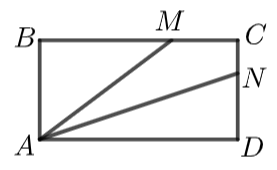
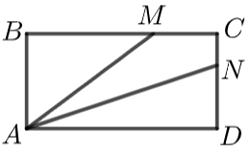
hw

diff --git a/src/model/bank.ts b/src/model/bank.ts
@@ -2868,7 +2868,7 @@ export const bank: Question[] = [
     id: '179b477953e',
     chapter: '矩陣B',
     question:
-      '請問下列哪一個選項中的矩陣乘積等於 $\\begin{bmatrix}2a&3b\\\\2c&3d\\end{bmatrix}$`?\n(A) $\\begin{bmatrix}a&b\\\\c&d\\end{bmatrix}\\begin{bmatrix}2\\\\3\\end{bmatrix}$ (B) $\\begin{bmatrix}2&3\\end{bmatrix}\\begin{bmatrix}a&b\\\\c&d\\end{bmatrix}$\n(C) $\\begin{bmatrix}2&3\\\\2&3\\end{bmatrix}\\begin{bmatrix}a&b\\\\c&d\\end{bmatrix}$ (D) $\\begin{bmatrix}2&0\\\\0&3\\end{bmatrix}\\begin{bmatrix}a&b\\\\c&d\\end{bmatrix}$\n(E) $\\begin{bmatrix}a&b\\\\c&d\\end{bmatrix}\\begin{bmatrix}2&0\\\\0&3\\end{bmatrix}$',
+      '請問下列哪一個選項中的矩陣乘積等於 $\\begin{bmatrix}2a&3b\\\\2c&3d\\end{bmatrix}$？\n(A) $\\begin{bmatrix}a&b\\\\c&d\\end{bmatrix}\\begin{bmatrix}2\\\\3\\end{bmatrix}$ (B) $\\begin{bmatrix}2&3\\end{bmatrix}\\begin{bmatrix}a&b\\\\c&d\\end{bmatrix}$\n(C) $\\begin{bmatrix}2&3\\\\2&3\\end{bmatrix}\\begin{bmatrix}a&b\\\\c&d\\end{bmatrix}$ (D) $\\begin{bmatrix}2&0\\\\0&3\\end{bmatrix}\\begin{bmatrix}a&b\\\\c&d\\end{bmatrix}$\n(E) $\\begin{bmatrix}a&b\\\\c&d\\end{bmatrix}\\begin{bmatrix}2&0\\\\0&3\\end{bmatrix}$',
     answer: '(E)',
     hasImage: false,
   },
@@ -11763,7 +11763,7 @@ export const bank: Question[] = [
     id: '17c922bf1a6',
     chapter: '平面向量',
     question:
-      '$\\vector{a}＝(3,-5)$，$\\vector{b} =(2,7)$，$\\vector{c} =(k,2k+1)$，則：\n(1) 求 $\\vector{a}\\cdot\\vector{b}$ (2) 若 $\\vector{b}\\cdot\\vector{c}=-25$，求 $k$',
+      '$\\vector{a}=(3,-5)$，$\\vector{b} =(2,7)$，$\\vector{c} =(k,2k+1)$，則：\n(1) 求 $\\vector{a}\\cdot\\vector{b}$ (2) 若 $\\vector{b}\\cdot\\vector{c}=-25$，求 $k$',
     answer: '(1) $-29$ (2) $-2$',
     hasImage: false,
   },
@@ -18840,7 +18840,7 @@ export const bank: Question[] = [
     id: '17e058b7d0b',
     chapter: '平面向量',
     question:
-      '點 $P$ 在 $\\overline{AB}$ 上，點 $Q$ 在 $\\overline{AC}$ 上，$\\overline{BQ}$ 與 $\\overline{CP}$ 交於 $R$，$\\xvector{AR}=\\frac25\\xvector{AB}+\\frac37\\xvector{AC}$，如圖，求 $\\frac{\\overline{AP}}{\\overline{PB}}$、$\\frac{\\overline{AQ}}{\\overline{QC}}$。',
+      '$P$ 在 $\\overline{AB}$ 上，$Q$ 在 $\\overline{AC}$ 上，$\\overline{BQ}$ 與 $\\overline{CP}$ 交於 $R$，$\\xvector{AR}=\\frac25\\xvector{AB}+\\frac37\\xvector{AC}$，如圖，求 $\\frac{\\overline{AP}}{\\overline{PB}}$、$\\frac{\\overline{AQ}}{\\overline{QC}}$。',
     answer: '$\\frac73$；$\\frac52$',
     hasImage: true,
   },
@@ -18856,7 +18856,7 @@ export const bank: Question[] = [
     id: '17e092a5366',
     chapter: '平面向量',
     question:
-      '平面上有一 $\\triangle ABC$，$G$ 為 $\\triangle ABC$ 的重心，$O$、$D$ 為此平面上的相異二點，且滿足 $\\xvector{OD}=\\xvector{OA}+\\xvector{OB}+\\xvector{OC}$，請選出正確的選項。\n(1) $O$、$G$、$D$ 三點共線\n(2) $\\overline{OD}=2\\overline{OG}$\n(3) $\\xvector{AD}+\\xvector{BD}+\\xvector{CD}=2\\xvector{OD}$\n(4) $G$ 位於 $\\triangle ABC$ 的內部\n(5) $D$ 位於 $\\triangle ABC$ 的外部',
+      '平面上有一 $\\triangle ABC$，$G$ 為 $\\triangle ABC$ 的重心，$O$、$D$ 為此平面上的相異二點，且滿足 $\\xvector{OD}=\\xvector{OA}+\\xvector{OB}+\\xvector{OC}$，下列哪些正確？\n(1) $O$、$G$、$D$ 三點共線\n(2) $\\overline{OD}=2\\overline{OG}$\n(3) $\\xvector{AD}+\\xvector{BD}+\\xvector{CD}=2\\xvector{OD}$\n(4) $G$ 位於 $\\triangle ABC$ 的內部\n(5) $D$ 位於 $\\triangle ABC$ 的外部',
     answer: '(1)(3)(4)',
     hasImage: false,
   },
@@ -18864,8 +18864,48 @@ export const bank: Question[] = [
     id: '17e0a7eeea1',
     chapter: '平面向量',
     question:
-      '矩形 $ABCD$ 中，$\\overline{AB}=3$，$\\overline{AD}=6$，$\\xvector{DN}=2\\xvector{NC}$，$\\xvector{BM}=2\\xvector{MC}$，若 $\\angle NAM=\\theta$，求 $\\cos\\theta$。',
+      '矩形如圖，$\\overline{AB}=3$，$\\overline{AD}=6$，$\\xvector{DN}=2\\xvector{NC}$，$\\xvector{BM}=2\\xvector{MC}$，若 $\\angle NAM=\\theta$，求 $\\cos\\theta$。',
     answer: '$\\frac{3\\sqrt{10}}{10}$',
     hasImage: true,
+  },
+  {
+    id: '17e0bb831da',
+    chapter: '平面向量',
+    question:
+      '設平面上三點 $A(2,5)$，$B(5,1)$，$C(3,7)$，若 $\\xvector{AP}=x\\xvector{AB}+y\\xvector{AC}$，其中 $-1\\le x\\le1$，$0\\le y\\le3$，試求所有的點 $P$ 所形成之區域面積。',
+    answer: '$60$',
+    hasImage: false,
+  },
+  {
+    id: '17e0bbea7a2',
+    chapter: '平面向量',
+    question:
+      '坊間一包 A4 影印紙有 $500$ 張，請問至少需要幾張 A0 尺寸的影印原紙，才足夠切得一包 A4 影印紙？',
+    answer: '$32$',
+    hasImage: false,
+  },
+  {
+    id: '17e0bc2d5b6',
+    chapter: '平面向量',
+    question:
+      '三分之一拱 $ABK$ 如圖，$P$、$Q$ 為 $\\overline{AB}$ 的三等分點，也是左、右兩道圓弧的圓心，兩圓弧交於 $K$，在 $K$ 作兩圓弧的切線 $L$、$M$，兩切線的鈍夾角稱為拱形的「頂角」，試求頂角大小。(求近似值至小數點後第二位，可用計算機)',
+    answer: '$151.04\\du$',
+    hasImage: true,
+  },
+  {
+    id: '17e0bc65abf',
+    chapter: '平面向量',
+    question:
+      '圖為「單點透視法」畫出的立體圖形，$L$ 是遠方地平線，$A$ 為消失點，某人的身長在圖中為 $15$ 公分，站立在距 $A$ 為 $18$ 公分的 $P$ 點位置，若此人沿 $\\xvector{AP}$ 的方向走到 $Q$，圖中 $\\overline{PQ}$ 為 $12$ 公分，求此人在圖中 $Q$ 處的身長。',
+    answer: '$25$ 公分',
+    hasImage: true,
+  },
+  {
+    id: '17e0bca6fe6',
+    chapter: '平面向量',
+    question:
+      '設 $O$、$A$、$B$、$C$ 為平面上任意四點，下列哪些選項中的 $A$、$B$、$C$ 三點一定共線？\n(1) $|\\xvector{AB}|+|\\xvector{BC}|=|\\xvector{AC}|$\n(2) $|\\xvector{AB}|-|\\xvector{BC}|=|\\xvector{AC}|$\n(3) $\\xvector{OC}=\\frac13\\xvector{OA}-\\frac23\\xvector{OB}$\n(4) $3\\xvector{OC}=8\\xvector{OA}-5\\xvector{OB}$\n(5) $\\xvector{AB}=2\\xvector{CB}$',
+    answer: '(1)(2)(4)(5)',
+    hasImage: false,
   },
 ];

diff --git a/src/pages/hw/Hw.tsx b/src/pages/hw/Hw.tsx
@@ -7,18 +7,18 @@ import style from './Hw.module.scss';
 
 const Hw = () => {
   const ids: string[] = [
-    '17dd6193d3d',
-    '17dd61a0df0',
-    '17dd61af6aa',
-    '17dd61d60e6',
-    '17dd61f9cbd',
+    '17e058b7d0b',
+    '17e08ddf12a',
+    '17e092a5366',
+    '17e0bca6fe6',
+    '17e0bb831da',
     '17dd621c84a',
     '17dd623fca6',
     '17dd6254cb0',
-    '17ddb98c087',
-    '17dea2bb82c',
-    '17deb4c7d73',
-    '17ded03ee72',
+    '17e0a7eeea1',
+    '17e0bbea7a2',
+    '17e0bc2d5b6',
+    '17e0bc65abf',
   ];
 
   const addDefaultSrc = (ev: ChangeEvent<HTMLImageElement>) => {
